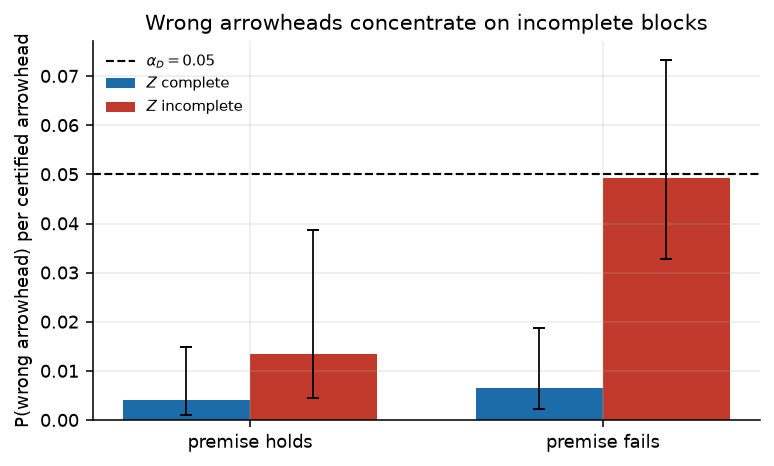
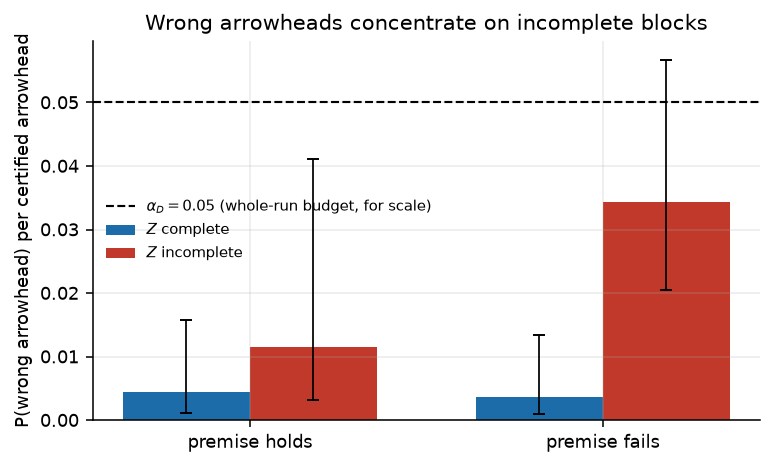
Update experiment 11 with the post-fix rerun's numbers
The block-completeness diagnostic (Section 9.5) was run before the
kappa-grid supremum-attainment and speed fixes to certificates.py;
this is the corresponding rerun. Numbers moved (e.g. the
incomplete-block wrong-arrowhead rate on the premise-failing stratum
is now 0.034 with 14/16 of that stratum's errors on incomplete blocks,
versus the previous 0.049 and 22/25) but the qualitative story is
unchanged: incompleteness is more common where the premise fails
(42.9% vs 27.4%, Fisher p=3.0e-10) and concentrates the errors
(factor of 9.3, Fisher p=4.0e-4). Regenerated the figure from the new
data with the already-fixed axis label (whole-run budget, for scale).

Rebuilt the PDF (56 pages, clean).

Claude-Session: https://claude.ai/code/session_01McpzyfhuZDEG7sZdojoL1M

diff --git a/paper/jjsds/txt_diag.tex b/paper/jjsds/txt_diag.tex
@@ -28,21 +28,22 @@ intervals. Rates are per certified arrowhead.}\label{tab:diag}
 \toprule
 stratum & $Z_{ij}$ & arrowheads & wrong & rate \\
 \midrule
-premise holds & complete   & $486$ & $2$  & $0.004$ \tiny{[.001,.015]} \\
-premise holds & incomplete & $224$ & $3$  & $0.013$ \tiny{[.005,.039]} \\
-premise fails & complete   & $465$ & $3$  & $0.007$ \tiny{[.002,.019]} \\
-premise fails & incomplete & $447$ & $22$ & $0.049$ \tiny{[.033,.073]} \\
+premise holds & complete   & $458$ & $2$  & $0.004$ \tiny{[.001,.016]} \\
+premise holds & incomplete & $173$ & $2$  & $0.012$ \tiny{[.003,.041]} \\
+premise fails & complete   & $542$ & $2$  & $0.004$ \tiny{[.001,.013]} \\
+premise fails & incomplete & $408$ & $14$ & $0.034$ \tiny{[.021,.057]} \\
 \bottomrule
 \end{tabular}
 \end{table}
 
 Both halves of the explanation hold. Incompleteness is more common where the
-premise fails---$49.0\%$ of certified arrowheads against $31.5\%$ where it
-holds (Fisher $p = 1.4\times10^{-12}$)---which is the certification-order
+premise fails---$42.9\%$ of certified arrowheads against $27.4\%$ where it
+holds (Fisher $p = 3.0\times10^{-10}$)---which is the certification-order
 effect. And incompleteness is where the errors are: on the failing stratum the
-wrong-arrowhead rate is $0.049$ with an incomplete block against $0.007$ with
-a complete one, a factor of $7.6$ (Fisher $p = 5.5\times10^{-5}$), and $22$ of
-the $25$ wrong arrowheads occur on pairs with an incomplete block. These are
+wrong-arrowhead rate is $0.034$ with an incomplete block against $0.004$ with
+a complete one, a factor of $9.3$ (Fisher $p = 4.0\times10^{-4}$), and $14$ of
+the $16$ wrong arrowheads on that stratum occur on pairs with an incomplete
+block. These are
 per-arrowhead rates, not the quantity $\alpha_D$ bounds: $\alpha_D$ is a
 whole-run, family-wise budget summed over all $d(d-1)$ direction nulls
 (Section~\ref{sec:algo-desc}), so the two are not on a common scale and the
